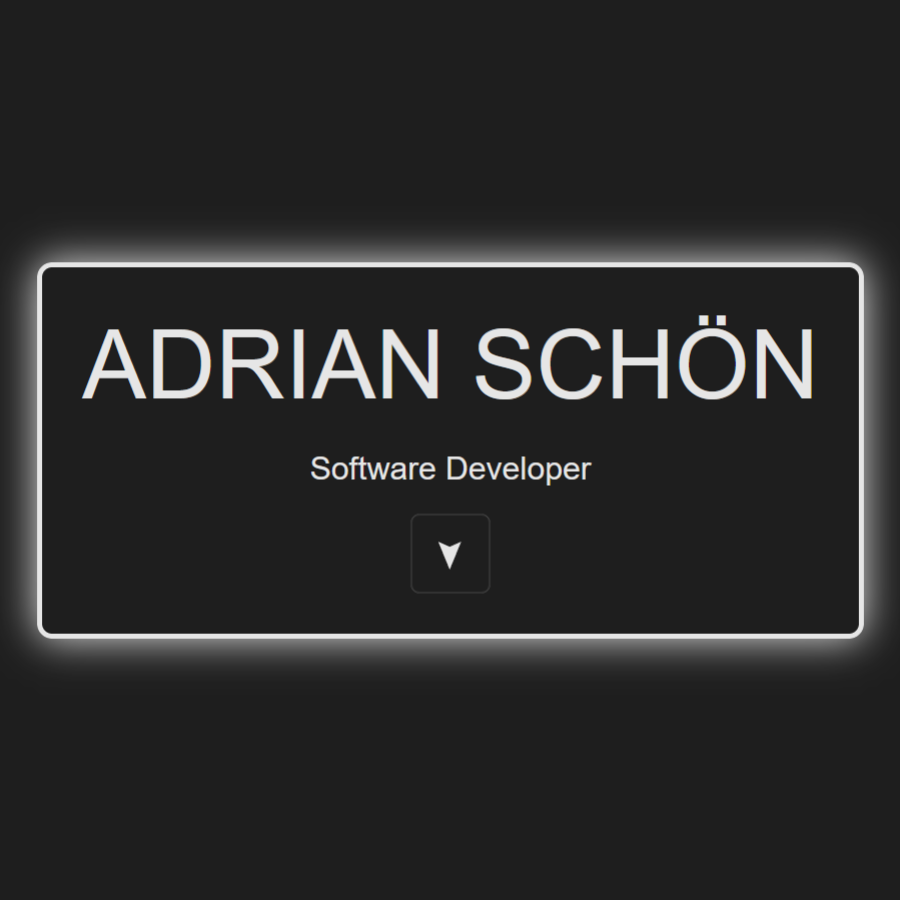
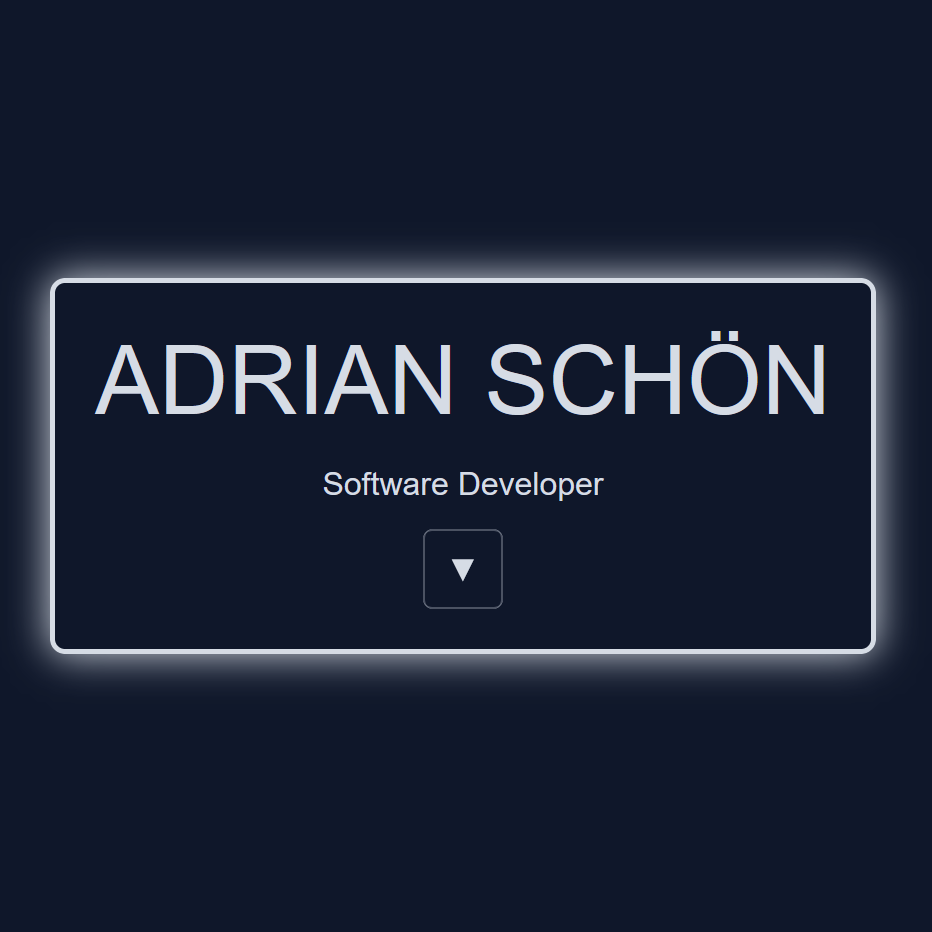
Dark theme -> dark blue; Adjusted second -> third semester

diff --git a/js/language-switcher.js b/js/language-switcher.js
@@ -20,7 +20,7 @@ const translations = {
         projectsTitle2ModalTitle2Text: "CatCompression is a playful command-line tool that compresses text files using Huffman coding and embeds the compressed data into a PNG image of a cat. Inspired by a love for cats and a university lesson on file compression, this project showcases the creative side of programming. While not the most practical compression tool compared to standard formats like .zip or .7z, CatCompression offers a unique twist by hiding your files within a cute cat image. Designed for both fun and experimentation, it supports the compression of multiple text files and extraction from multiple PNG images. Future updates aim to handle more file types and feature a variety of cat images to keep things interesting. Perfect for those who appreciate blending tech skills with a bit of whimsy!",
         projectsTitle2ModalTitle2Button: "View on GitHub",
         aboutAboutMe: "About Me",
-        aboutAboutMeText: "Hi, my name is Adrian Schön and I am currently in the second semester of my dual study programme in computer science. I am studying in co-operation with United Internet AG and DHBW Karlsruhe.",
+        aboutAboutMeText: "Hi, my name is Adrian Schön and I am currently in the third semester of my dual study programme in computer science. I am studying in co-operation with United Internet AG and DHBW Karlsruhe.",
         aboutAboutMeText2: "By combining theory and practice, I gain valuable experience and deepen my knowledge both in the academic field and in real projects. My professional focus is on backend development. I work intensively with technologies such as Java and SpringBoot to develop robust and scalable applications. I place particular emphasis on clean code, performance optimisation and the implementation of best practices.",
         aboutAboutMeText3: "In addition to my backend work, I also work with frontend technologies. I enjoy designing websites and web applications, utilising HTML, CSS and JavaScript to develop user-friendly and appealing interfaces. This website you are currently viewing is an example of my frontend work.",
         cvCv: "Curriculum Vitae",
@@ -75,7 +75,7 @@ const translations = {
         projectsTitle2ModalTitle2Text: "CatCompression ist ein spielerisches Kommandozeilenprogramm, das Textdateien mithilfe der Huffman-Kodierung komprimiert und die komprimierten Daten in ein PNG-Bild einer Katze einbettet. Inspiriert von der Liebe zu Katzen und einer Vorlesung an der Hochschule zum Thema Dateikomprimierung, zeigt dieses Projekt die kreative Seite der Programmierung. Obwohl es im Vergleich zu Standardformaten wie .zip oder .7z nicht das praktischste Komprimierungstool ist, bietet CatCompression einen einzigartigen Twist, indem es Dateien in einem süßen Katzenbild versteckt. Es wurde zum Spaß und zum Experimentieren entwickelt und unterstützt die Komprimierung mehrerer Textdateien und die Extraktion aus mehreren PNG-Bildern. Zukünftige Updates sollen mehr Dateitypen verarbeiten und eine Vielzahl von Katzenbildern bieten, um die Sache interessant zu halten. Perfekt für alle, die es schätzen, technische Fähigkeiten mit ein wenig Humor zu verbinden!",
         projectsTitle2ModalTitle2Button: "Zur GitHub Repo",
         aboutAboutMe: "Über Mich",
-        aboutAboutMeText: "Hallo! Mein Name ist Adrian Schön, und ich befinde mich aktuell im zweiten Semester meines dualen Studiums der Informatik. Ich studiere in Zusammenarbeit mit der United Internet AG und der DHBW Karlsruhe.",
+        aboutAboutMeText: "Hallo! Mein Name ist Adrian Schön, und ich befinde mich aktuell im dritten Semester meines dualen Studiums der Informatik. Ich studiere in Zusammenarbeit mit der United Internet AG und der DHBW Karlsruhe.",
         aboutAboutMeText2: "Durch die Kombination von Theorie und Praxis sammle ich wertvolle Erfahrungen und vertiefe mein Wissen sowohl im akademischen Bereich als auch in realen Projekten.\nDer Schwerpunkt meiner beruflichen Tätigkeit liegt in der Backend-Entwicklung. Ich arbeite intensiv mit Technologien wie Java und SpringBoot, um robuste und skalierbare Anwendungen zu entwickeln. Dabei lege ich besonderen Wert auf sauberen Code, Performance-Optimierung und die Implementierung von Best Practices.",
         aboutAboutMeText3: "Neben meiner Backend-Arbeit beschäftige ich mich auch mit Frontend-Technologien. Ich habe Freude daran, Websites und Webanwendungen zu gestalten, und nutze dabei HTML, CSS und JavaScript, um benutzerfreundliche und ansprechende Oberflächen zu entwickeln. Diese Website, auf der Sie sich gerade befinden, ist ein Beispiel für meine Arbeit im Frontend-Bereich.",
         cvCv: "Lebenslauf",

diff --git a/index.html b/index.html
@@ -17,7 +17,7 @@
     <meta name="author" content="Adrian Schön" />
 
     <link href="https://cdn.jsdelivr.net/npm/bootstrap@5.3.2/dist/css/bootstrap.min.css" rel="stylesheet" integrity="sha384-T3c6CoIi6uLrA9TneNEoa7RxnatzjcDSCmG1MXxSR1GAsXEV/Dwwykc2MPK8M2HN" crossorigin="anonymous" />
-    <link rel="stylesheet" href="/css/styles.css?v=1.10">
+    <link rel="stylesheet" href="/css/styles.css?v=1.11">
 </head>
 <body class="index-html-page">
     <header id="header" class="fading-header">
@@ -109,7 +109,7 @@
                 <img src="/images/adrian-schoen.png" class="img-fluid rounded-5" id="adrian-schoen-img" alt="Adrian Schön">
             </div>
             <div class="mt-3">
-                <p id="about-about-me-text" data-translate="aboutAboutMeText">Hallo! Mein Name ist Adrian Schön, und ich befinde mich aktuell im zweiten Semester meines dualen Studiums der Informatik. Ich studiere in Zusammenarbeit mit der United Internet AG und der DHBW Karlsruhe.</p>
+                <p id="about-about-me-text" data-translate="aboutAboutMeText">Hallo! Mein Name ist Adrian Schön, und ich befinde mich aktuell im dritten Semester meines dualen Studiums der Informatik. Ich studiere in Zusammenarbeit mit der United Internet AG und der DHBW Karlsruhe.</p>
                 <p id="about-about-me-text2" data-translate="aboutAboutMeText2">Durch die Kombination von Theorie und Praxis sammle ich wertvolle Erfahrungen und vertiefe mein Wissen sowohl im akademischen Bereich als auch in realen Projekten. Der Schwerpunkt meiner beruflichen Tätigkeit liegt in der Backend-Entwicklung. Ich arbeite intensiv mit Technologien wie Java und SpringBoot, um robuste und skalierbare Anwendungen zu entwickeln. Dabei lege ich besonderen Wert auf sauberen Code, Performance-Optimierung und die Implementierung von Best Practices.</p>
                 <p id="about-about-me-text3" data-translate="aboutAboutMeText3">Neben meiner Backend-Arbeit beschäftige ich mich auch mit Frontend-Technologien. Ich habe Freude daran, Websites und Webanwendungen zu gestalten, und nutze dabei HTML, CSS und JavaScript, um benutzerfreundliche und ansprechende Oberflächen zu entwickeln. Diese Website, auf der Sie sich gerade befinden, ist ein Beispiel für meine Arbeit im Frontend-Bereich.</p>
             </div>

diff --git a/css/styles.css b/css/styles.css
@@ -1,10 +1,11 @@
 /* Global Variables */
 :root {
-    --white-low-alpha: rgba(230, 230, 230, 0.3);
-    --white: rgb(230, 230, 230);
-    --background-black: rgb(30, 30, 30);
-    --header-footer-black: rgb(15, 15, 15);
-    --card-modal-black: rgb(20, 20, 20);
+    --white-low-alpha: rgba(214, 220, 229, 0.3);
+    /* --white: rgb(230, 230, 230); */
+    --white: rgb(214, 220, 229);
+    --background-black: rgb(15, 23, 42);
+    --header-footer-black: rgb(8, 12, 21);
+    --card-modal-black: rgb(30, 41, 59);
 }
 
 html {
